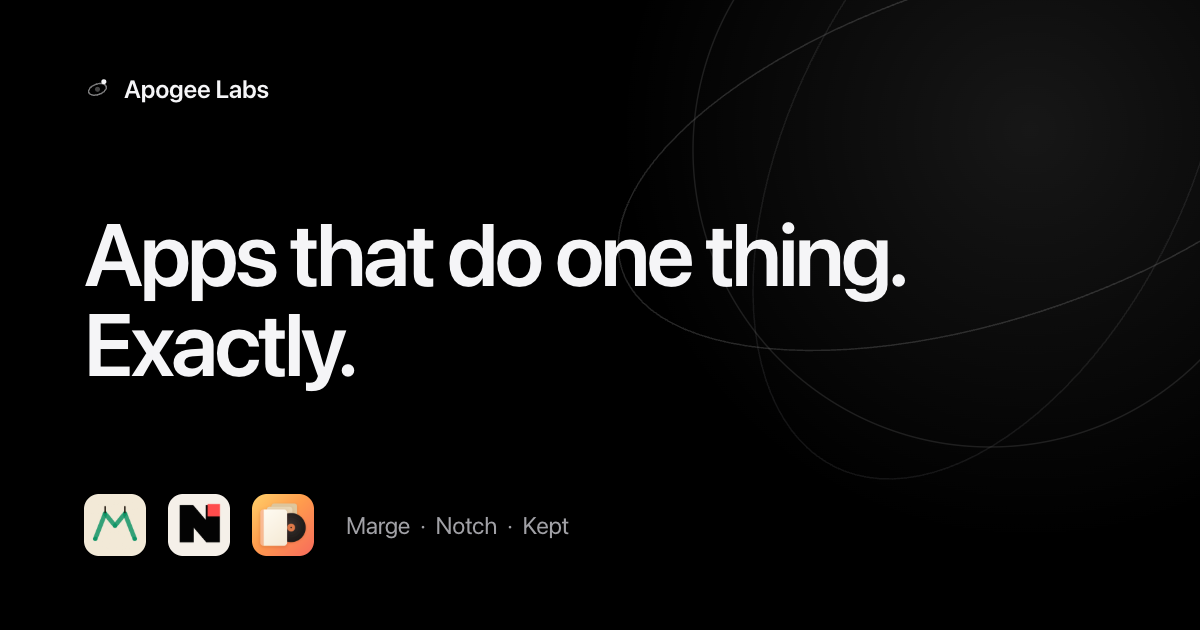
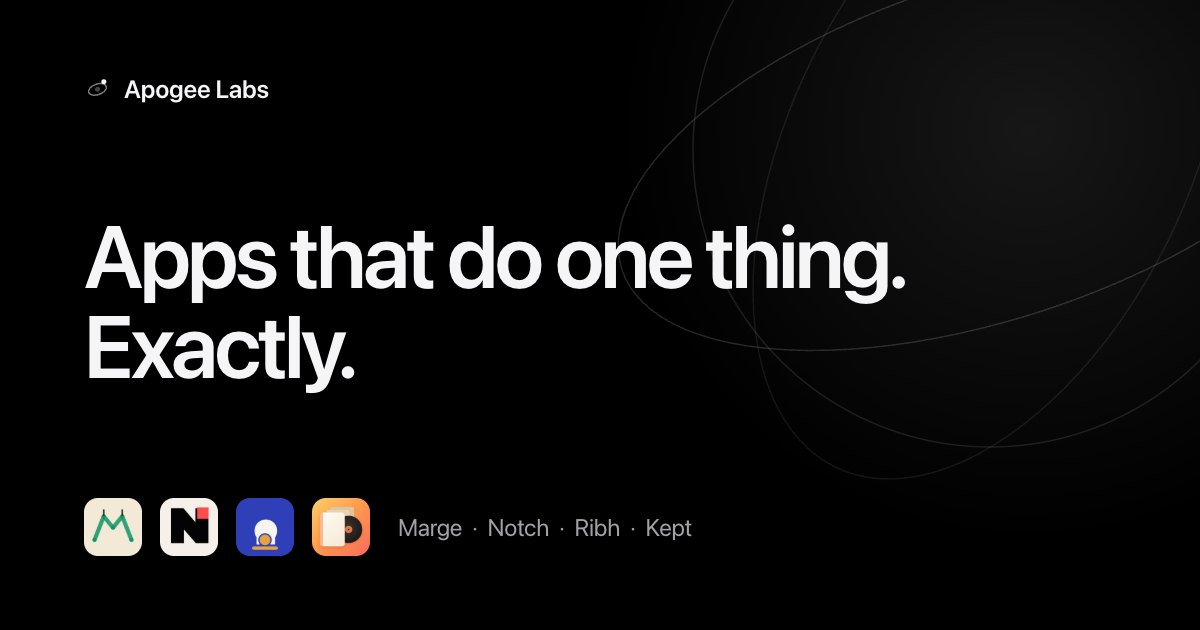
Add Ribh as the fourth app section
Ribh is not hosted here, so it gets a pinned section and nothing else: no
/ribh/ smart-link page, no QR, no new sitemap URL.

- Section sits third (Marge, Notch, Ribh, Kept) and flips the band alternation
  from Kept onward; cream spines gained a hairline now that Kept is on a light
  band. Accent #e8a33d is the orange sampled from the real app icon — the brand
  indigo #2e3fb7 cannot carry text on a black band.
- Eyebrow pairs "Ribh" with the Arabic wordmark ربح; a French sub-line sits
  under the headline. Hook is the money the courier is holding.
- Three-beat visual: a COD ledger (1 240 MAD collected, 2 returned at 0 MAD,
  980 MAD remitted), the 260 MAD still owed, then a genuine capture of the
  French app whose own dashboard reads "LES COURSIERS TE DOIVENT". It carries
  no customer names. 1240 - 980 = 260.
- "Visit ribh.ma" plus device-aware store links handled on the tile itself,
  since there is no page to do it: both stores named on desktop and with JS
  off, one on a phone. That block runs before the reduced-motion bail-out.
- Nav, hero subhead, meta and OG card now say four apps; the footer's "Also
  from us" line is gone, replaced by a plain ribh.ma link.

Lighthouse mobile: 100 performance, 100 accessibility, 100 best practices.

diff --git a/index.html b/index.html
@@ -4,7 +4,7 @@
 <meta charset="utf-8">
 <meta name="viewport" content="width=device-width, initial-scale=1, viewport-fit=cover">
 <title>Apogee Labs — apps that do one thing, exactly</title>
-<meta name="description" content="A small independent studio. Marge tracks your real profit after every fee, Notch settles chores and bills with your flatmates, and Kept is a calm home for what you collect.">
+<meta name="description" content="A small independent studio. Marge tracks your real profit after every fee, Notch settles chores and bills with your flatmates, Ribh tells Moroccan COD sellers what the courier still owes them, and Kept is a calm home for what you collect.">
 <meta name="theme-color" content="#1d1d1f" media="(prefers-color-scheme: dark)">
 <meta name="theme-color" content="#fbfbfd" media="(prefers-color-scheme: light)">
 <meta name="color-scheme" content="light dark">
@@ -14,13 +14,13 @@
 <meta property="og:site_name" content="Apogee Labs">
 <meta property="og:url" content="https://apogeelabs.org/">
 <meta property="og:title" content="Apogee Labs — apps that do one thing, exactly">
-<meta property="og:description" content="Marge, Notch and Kept. Three focused apps from a small independent studio.">
+<meta property="og:description" content="Marge, Notch, Ribh and Kept. Four focused apps from a small independent studio.">
 <meta property="og:image" content="https://apogeelabs.org/assets/img/og.png">
 <meta property="og:image:width" content="1200">
 <meta property="og:image:height" content="630">
 <meta name="twitter:card" content="summary_large_image">
 <meta name="twitter:title" content="Apogee Labs — apps that do one thing, exactly">
-<meta name="twitter:description" content="Marge, Notch and Kept. Three focused apps from a small independent studio.">
+<meta name="twitter:description" content="Marge, Notch, Ribh and Kept. Four focused apps from a small independent studio.">
 <meta name="twitter:image" content="https://apogeelabs.org/assets/img/og.png">
 
 <link rel="icon" href="assets/img/favicon.svg" type="image/svg+xml">
@@ -44,6 +44,7 @@
     </a>
     <a href="#marge">Marge</a>
     <a href="#notch">Notch</a>
+    <a href="#ribh">Ribh</a>
     <a href="#kept">Kept</a>
   </div>
 </nav>
@@ -80,7 +81,7 @@
     <div class="inner">
       <p class="eyebrow reveal">Apogee Labs</p>
       <h1 class="display reveal" style="--d:1">Apps that do one thing. Exactly.</h1>
-      <p class="sub reveal" style="--d:2">A small independent studio. Three apps, each built to be the best possible answer to a single question.</p>
+      <p class="sub reveal" style="--d:2">A small independent studio. Four apps, each built to be the best possible answer to a single question.</p>
       <div class="links reveal" style="--d:3">
         <a class="tlink" href="#marge">Meet the apps</a>
       </div>
@@ -193,8 +194,75 @@
     </div>
   </section>
 
+  <!-- ============================================================ Ribh -- -->
+  <section class="band band--dark pin" id="ribh" style="--accent:#e8a33d" aria-labelledby="ribh-h">
+    <div class="pin__track">
+      <div class="pin__stage">
+        <div class="inner">
+          <div class="pin__grid grid12">
+            <div class="pin__copy">
+              <p class="eyebrow">Ribh <span lang="ar" dir="rtl">&#1585;&#1576;&#1581;</span></p>
+              <h2 class="headline" id="ribh-h">Know what the courier still owes you.</h2>
+              <p class="note" lang="fr" style="margin-top:14px">Pour les vendeurs COD au Maroc.</p>
+              <div class="notes">
+                <div class="slot slot--out" style="--from:-.09; --to:.36">
+                  <p class="note">Cash on delivery means your money spends days in someone else's hands. Ribh keeps the ledger: delivered, returned, and what actually came back.</p>
+                </div>
+                <div class="slot slot--out" style="--from:.40; --to:.68">
+                  <p class="note">Reconcile a courier's payout against the parcels it was meant to cover, and the gap stops being a guess.</p>
+                </div>
+                <div class="slot" style="--from:.72">
+                  <p class="note">Real profit per month, per product, per courier. <b>Ribh is a separate product, at ribh.ma.</b></p>
+                </div>
+              </div>
+              <div class="links">
+                <a class="tlink" href="https://ribh.ma">Visit ribh.ma</a>
+                <a class="tlink" id="ribh-ios" href="https://apps.apple.com/app/id6779765564">App Store</a>
+                <a class="tlink" id="ribh-play" href="https://play.google.com/store/apps/details?id=com.ribh.ribh">Google Play</a>
+              </div>
+
+              <div class="pin__rail" aria-hidden="true">
+                <i style="--from:0; --span:.38"></i>
+                <i style="--from:.38; --span:.32"></i>
+                <i style="--from:.70; --span:.28"></i>
+              </div>
+            </div>
+
+            <div class="pin__visual" aria-hidden="true">
+              <div class="slot slot--out" style="--from:-.09; --to:.36">
+                <div class="fees">
+                  <p class="fees__gross">1&#8239;240 MAD</p>
+                  <p class="fees__cap">Collected on delivery this week &middot; 5 parcels</p>
+                  <p class="fees__row" style="--at:.08"><span>&#8617; Returned &middot; 2 parcels</span><b>0 MAD</b></p>
+                  <p class="fees__row" style="--at:.17"><span>&rarr; Remitted by the courier</span><b>&minus;980 MAD</b></p>
+                </div>
+              </div>
+              <div class="slot slot--out" style="--from:.40; --to:.68">
+                <div class="fees">
+                  <p class="net__from">from 1&#8239;240 MAD</p>
+                  <p class="net">
+                    <span class="net__num"><span data-count="260" data-count-from="0" data-count-at=".44" data-count-span=".18">260</span> MAD</span>
+                  </p>
+                  <p class="net__lab">still owed by the courier</p>
+                </div>
+              </div>
+              <div class="slot" style="--from:.72">
+                <!-- Optional real-capture slot. Absent file &rarr; nothing renders. -->
+                <figure class="shot">
+                  <img src="assets/img/real/ribh-dashboard.webp" width="900" height="1951"
+                       alt="" loading="lazy" decoding="async"
+                       onerror="this.closest('.shot').hidden=true">
+                </figure>
+              </div>
+            </div>
+          </div>
+        </div>
+      </div>
+    </div>
+  </section>
+
   <!-- ============================================================ Kept -- -->
-  <section class="band band--dark pin" id="kept" style="--accent:#e2613a" aria-labelledby="kept-h">
+  <section class="band pin" id="kept" style="--accent:#e2613a" aria-labelledby="kept-h">
     <div class="pin__track">
       <div class="pin__stage">
         <div class="inner">
@@ -238,10 +306,10 @@
   </section>
 </main>
 
-<footer class="band foot">
+<footer class="band band--dark foot">
   <div class="inner foot__in">
     <span>&copy; 2026 Apogee Labs. Formerly Airwinn.</span>
-    <span class="foot__also">Also from us: Ribh &rarr; <a href="https://ribh.ma">ribh.ma</a></span>
+    <span class="foot__also"><a href="https://ribh.ma">ribh.ma</a></span>
   </div>
 </footer>
 

diff --git a/assets/js/site.js b/assets/js/site.js
@@ -4,6 +4,25 @@
 (function () {
   "use strict";
 
+  /* -- 0. Ribh's store links ------------------------------------------------
+     Ribh isn't hosted here, so there's no smart-link page to do the switching.
+     Desktop keeps both stores named; a phone keeps only its own. Runs before
+     the reduced-motion bail-out — it's navigation, not motion. */
+  var rIos = document.getElementById("ribh-ios"),
+      rPlay = document.getElementById("ribh-play");
+  if (rIos && rPlay) {
+    var rUa = navigator.userAgent || "";
+    var mine = /Android/.test(rUa) ? rPlay
+             : (/iPad|iPhone|iPod/.test(rUa) ||
+                (navigator.platform === "MacIntel" && navigator.maxTouchPoints > 1)) ? rIos
+             : null;
+    if (mine) {
+      (mine === rIos ? rPlay : rIos).remove();
+      mine.textContent = "Get the app";
+      mine.setAttribute("aria-label", "Get the app \u2014 Ribh");
+    }
+  }
+
   var reduced = matchMedia("(prefers-reduced-motion: reduce)");
   if (reduced.matches) return;
 

diff --git a/tools/og-card.html b/tools/og-card.html
@@ -26,8 +26,8 @@
     font-size: 88px; line-height: 1.02; letter-spacing: -.038em; font-weight: 600;
     max-width: 15ch;
   }
-  .bot { display: flex; align-items: center; gap: 22px; position: relative; }
-  .bot img { width: 62px; height: 62px; border-radius: 15px; }
+  .bot { display: flex; align-items: center; gap: 18px; position: relative; }
+  .bot img { width: 58px; height: 58px; border-radius: 14px; }
   .bot span { font-size: 24px; letter-spacing: -.012em; color: #a1a1a6; margin-left: 10px; }
 </style>
 <div class="glow"></div>
@@ -54,6 +54,7 @@
 <div class="bot">
   <img src="../assets/img/apps/marge-icon-192.png">
   <img src="../assets/img/apps/notch-icon-192.png">
+  <img src="../assets/img/apps/ribh-icon-192.png">
   <img src="../assets/img/apps/kept-icon-192.png">
-  <span>Marge &nbsp;·&nbsp; Notch &nbsp;·&nbsp; Kept</span>
+  <span>Marge &nbsp;·&nbsp; Notch &nbsp;·&nbsp; Ribh &nbsp;·&nbsp; Kept</span>
 </div>

diff --git a/assets/css/style.css b/assets/css/style.css
@@ -145,6 +145,8 @@ h1, h2, h3 { margin: 0; font-weight: 600; }
   letter-spacing: -.01em;
   color: var(--ink);
 }
+.eyebrow [lang="ar"] { font-size: 1.1em; margin-inline-start: .18em; }
+
 .sub {
   margin: clamp(16px, 2.4vw, 26px) 0 0;
   font-size: clamp(1.1rem, 1.9vw, 1.55rem);
@@ -560,7 +562,9 @@ h1, h2, h3 { margin: 0; font-weight: 600; }
   min-height: 120px;
   border-radius: 4px 7px 7px 4px;
   background: var(--c);
-  box-shadow: 1px 0 0 rgba(255, 255, 255, .22) inset, 0 12px 26px -14px rgba(0, 0, 0, .6);
+  box-shadow: 1px 0 0 rgba(255, 255, 255, .22) inset,
+              0 0 0 1px rgba(0, 0, 0, .08),
+              0 12px 26px -14px rgba(0, 0, 0, .6);
   transform-origin: bottom center;
   transform: rotateY(calc(var(--tilt, 0) * 1deg));
   transition: transform 1s var(--ease);
